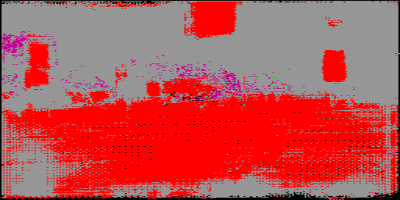
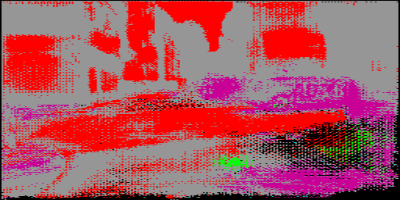
'working on the site'

diff --git a/templates/results.html b/templates/results.html
@@ -1,0 +1,31 @@
+{% extends "layout.html" %}
+
+{% block body %}
+<div class="container mt-5">
+    <h2 class="text-center">Segmentation Results</h2>
+    <div class="row mt-4">
+        <div class="col-md-6">
+            <div class="card">
+                <img src="{{ url_for('static', filename='data/original/original.png') }}" class="card-img-top" alt="Original Image">
+                <div class="card-body">
+                    <h5 class="card-title">Original Image</h5>
+                </div>
+            </div>
+        </div>
+        <div class="col-md-6">
+            <div class="card">
+                <img src="{{ url_for('static', filename='data/segmented/segmented.png') }}" class="card-img-top" alt="Segmented Image">
+                <div class="card-body">
+                    <h5 class="card-title">Segmented Image</h5>
+                </div>
+            </div>
+        </div>
+    </div>
+    <h3 class="mt-4">Categories Present in the Image:</h3>
+    <ul class="list-group">
+        {% for category in categories %}
+            <li class="list-group-item">{{ category }}</li>
+        {% endfor %}
+    </ul>
+</div>
+{% endblock %}

diff --git a/templates/layout.html b/templates/layout.html
@@ -10,8 +10,19 @@
   <body>
     <nav class="navbar navbar-expand-lg navbar-light bg-light">
       <div class="container">
-        <div class="mx-auto">
-          <a class="navbar-brand" href="#">Image Segmentation App</a>
+        <a class="navbar-brand" href="#">Image Segmentation App</a>
+        <button class="navbar-toggler" type="button" data-toggle="collapse" data-target="#navbarNav" aria-controls="navbarNav" aria-expanded="false" aria-label="Toggle navigation">
+          <span class="navbar-toggler-icon"></span>
+        </button>
+        <div class="collapse navbar-collapse" id="navbarNav">
+          <ul class="navbar-nav ml-auto">
+            <li class="nav-item">
+              <a class="nav-link" href="/">Home</a>
+            </li>
+            <li class="nav-item">
+              <a class="nav-link" href="/segment">Segment Image</a>
+            </li>
+          </ul>
         </div>
       </div>
     </nav>

diff --git a/templates/segment.html b/templates/segment.html
@@ -1,0 +1,11 @@
+{% extends 'layout.html' %}
+
+{% block body %}
+<div class="container">
+  <h1>Segment Image</h1>
+  <form action="/segment/" method="post" enctype="multipart/form-data">
+    <input type="file" name="image" accept="image/*">
+    <input type="submit" value="Upload">
+  </form>
+</div>
+{% endblock %}

diff --git a/test_flask.py b/test_flask.py
@@ -4,7 +4,7 @@ import cv2
 from PIL import Image
 import io
 import tensorflow as tf
-from flask import Flask, request, send_file, render_template
+from flask import Flask, request, send_file, render_template, redirect, url_for
 from keras.models import load_model
 from keras.losses import categorical_crossentropy
 from keras import backend as K
@@ -132,7 +132,7 @@ def index():
     
 
 # Endpoint pour segmenter l'image choisie à partir de l'app flask
-@app.route('/predict/', methods=["POST"])
+@app.route('/predict/', methods=['GET', 'POST'])
 def predictImage():
     img_path = img_paths + path_files[selected_id-1] + 'leftImg8bit.png'
 
@@ -160,17 +160,31 @@ def predictImage():
 
     return render_template('index.html',sended=True,nb_image=NB_IMAGES, selected=selected_id)
 
-# Endpoint pour segmenter une image quelconque envoyée depuis une requête API
-@app.route('/segment/', methods=["POST"])
+@app.route('/segment', methods=['GET', 'POST'])
+@app.route('/segment/', methods=['GET', 'POST'])
 def segmentImage():
+    if request.method == 'POST':
+        # Handle the POST request here
+        file = request.files.get('image')
 
-    test = request.files.get('image')
+        if not file:
+            return "No image uploaded", 400
 
-    if test:
-        image = Image.open(test)
+        # Open the image file
+        image = Image.open(file.stream)
+
+        # Resize the image
+        image = image.resize((256, 256))
+
+        # Save the resized original image to a static directory
+        image.save('static/data/original/original.png')
 
         img = prepare_img(image, (256,256))
-        y_pred = model.predict(img)
+        img = img.astype('float32')  # Convert the input tensor to float32
+        input_details = model.get_input_details()
+        model.set_tensor(input_details[0]['index'], img)
+        model.invoke()
+        y_pred = model.get_tensor(model.get_output_details()[0]['index'])
         y_pred_argmax=np.argmax(y_pred, axis=3)
 
         m = np.empty((y_pred_argmax[0].shape[0],y_pred_argmax[0].shape[1],3), dtype='uint8')
@@ -178,22 +192,29 @@ def segmentImage():
             for j in range(y_pred_argmax[0].shape[1]):
                 m[i][j] = cats_colors[y_pred_argmax[0][i][j]]
 
-        m = cv2.resize(m, (400,200))
+        m = cv2.resize(m, (256,256))
 
         im_bgr = cv2.cvtColor(m, cv2.COLOR_RGB2BGR)
 
         img = Image.fromarray(im_bgr)
 
-        file_object = io.BytesIO()
+        # Save the segmented image to a static directory
+        img.save('static/data/segmented/segmented.png')
 
-        img.save(file_object, 'png')
+        # Identify the categories present in the image
+        unique_categories = np.unique(y_pred_argmax)
+        present_categories = [key for key, value in cats_id.items() if value in unique_categories]
 
-        file_object.seek(0)
-
-        return send_file(file_object, mimetype='image/png')
-    
+        # Redirect to the results page
+        return redirect(url_for('results', categories=present_categories))
     else:
-        return "Image not send", 400
+        # Handle the GET request here
+        return render_template('segment.html')
+
+@app.route('/results', methods=['GET'])
+def results():
+    categories = request.args.getlist('categories')
+    return render_template('results.html', categories=categories)
 
 if __name__ == "__main__":
     app.run()
